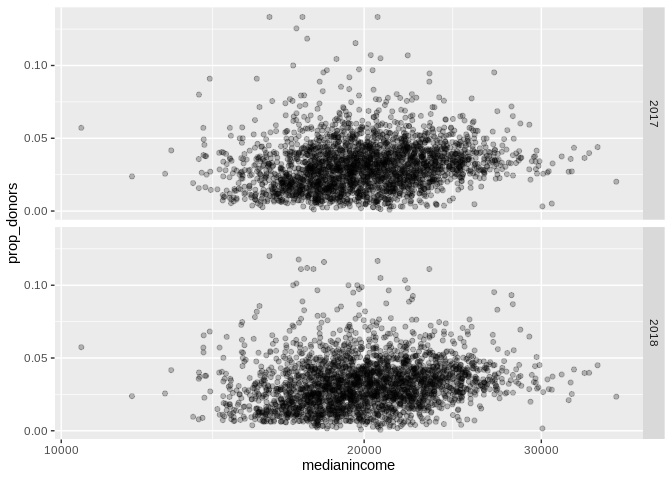
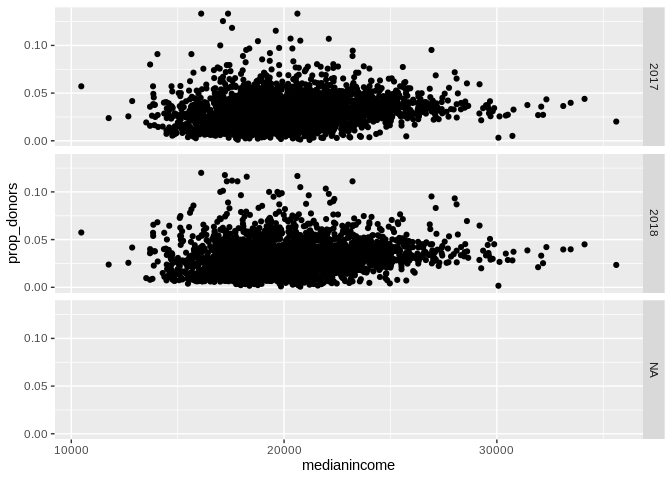
pushing the plots

diff --git a/src/visualisation.md b/src/visualisation.md
@@ -55,6 +55,17 @@ library(lubridate)
 
 # Is there a relationship of income and proportion of donors in the population?
 
+``` r
+preprosessed_paavo %>% 
+ggplot(aes(x= averageincome, y= prop_donors))+
+geom_point() + 
+facet_grid(Year~.)
+```
+
+    ## Warning: Removed 1969 rows containing missing values (geom_point).
+
+![](visualisation_files/figure-gfm/unnamed-chunk-4-1.png)<!-- -->
+
 filtering prop\_donors smaller than 1 and took common logarithm
 
 ``` r
@@ -68,21 +79,9 @@ facet_grid(Year~.)
 
     ## Warning: Removed 6 rows containing missing values (geom_point).
 
-![](visualisation_files/figure-gfm/unnamed-chunk-4-1.png)<!-- -->
+![](visualisation_files/figure-gfm/unnamed-chunk-5-1.png)<!-- -->
 
-# basic for averageincome and proportion of donors.
-
-``` r
-preprosessed_paavo %>% 
-ggplot(aes( x= averageincome, y= prop_donors))+
-geom_point()+
-facet_grid(Year~.)
-```
-
-    ## Warning: Removed 1969 rows containing missing values (geom_point).
-
-![](visualisation_files/figure-gfm/unnamed-chunk-5-1.png)<!-- --> \#
-basic plot for median.
+# basic plot for median.
 
 ``` r
 preprosessed_paavo %>% 
@@ -93,7 +92,7 @@ facet_grid(Year~.)
 
     ## Warning: Removed 1969 rows containing missing values (geom_point).
 
-![](visualisation_files/figure-gfm/unnamed-chunk-6-1.png)<!-- -->
+![](visualisation_files/figure-gfm/unnamed-chunk-7-1.png)<!-- -->
 
 \#Logarithm and filtering.
 
@@ -108,28 +107,72 @@ facet_grid(Year ~.)
 
     ## Warning: Removed 6 rows containing missing values (geom_point).
 
-![](visualisation_files/figure-gfm/unnamed-chunk-7-1.png)<!-- -->
+![](visualisation_files/figure-gfm/unnamed-chunk-8-1.png)<!-- -->
 
-same plot separately for first time donors and others
+``` r
+preprosessed_paavo %>% 
+  ggplot(aes(y = prop_donors, x = medianincome)) +
+geom_point() +
+geom_smooth() 
+```
+
+    ## `geom_smooth()` using method = 'gam' and formula 'y ~ s(x, bs = "cs")'
+
+    ## Warning: Removed 1969 rows containing non-finite values (stat_smooth).
+
+    ## Warning: Removed 1969 rows containing missing values (geom_point).
+
+![](visualisation_files/figure-gfm/unnamed-chunk-9-1.png)<!-- --> same
+plot separately for first time donors and others
+
+``` r
+preprosessed_paavo %>% 
+  ggplot(aes(y = prop_new_donors, x = medianincome)) +
+geom_point() +
+facet_wrap(Year~.)
+```
+
+    ## Warning: Removed 3396 rows containing missing values (geom_point).
+
+![](visualisation_files/figure-gfm/unnamed-chunk-10-1.png)<!-- -->
+
+``` r
+preprosessed_paavo %>% 
+  ggplot(aes(y = prop_repeat_donors, x = medianincome)) +
+geom_point() +
+facet_wrap(Year~.)
+```
+
+    ## Warning: Removed 3422 rows containing missing values (geom_point).
+
+![](visualisation_files/figure-gfm/unnamed-chunk-11-1.png)<!-- -->
 
 Is there a relationship between proportion of people with higher
 education and proportion of donors in the population?
 
-1.  Scatter plot Y= proportion of donors in a zip code X = proportion
-    inhabitants with higher education
+``` r
+preprosessed_paavo %>% 
+ggplot(aes( x= proportion_inhabitants_with_higher_education, y= nb_donation_per_act_donor)) + 
+geom_point(alpha= 0.25) +
+facet_grid(Year~.)
+```
 
-<!-- end list -->
+    ## Warning: Removed 1969 rows containing missing values (geom_point).
+
+![](visualisation_files/figure-gfm/unnamed-chunk-12-1.png)<!-- -->
 
 ``` r
 preprosessed_paavo %>% 
 ggplot(aes( x= proportion_inhabitants_with_higher_education, y= nb_donation_per_act_donor)) + 
-geom_count()+
-facet_grid(Year~.)
+geom_point(shape=1, ) + 
+geom_smooth(method=loess)
 ```
 
-    ## Warning: Removed 1969 rows containing non-finite values (stat_sum).
+    ## Warning: Removed 1969 rows containing non-finite values (stat_smooth).
 
-![](visualisation_files/figure-gfm/unnamed-chunk-8-1.png)<!-- -->
+    ## Warning: Removed 1969 rows containing missing values (geom_point).
+
+![](visualisation_files/figure-gfm/unnamed-chunk-13-1.png)<!-- -->
 
 ``` 
     b,Same plot separately for first time donors and others
